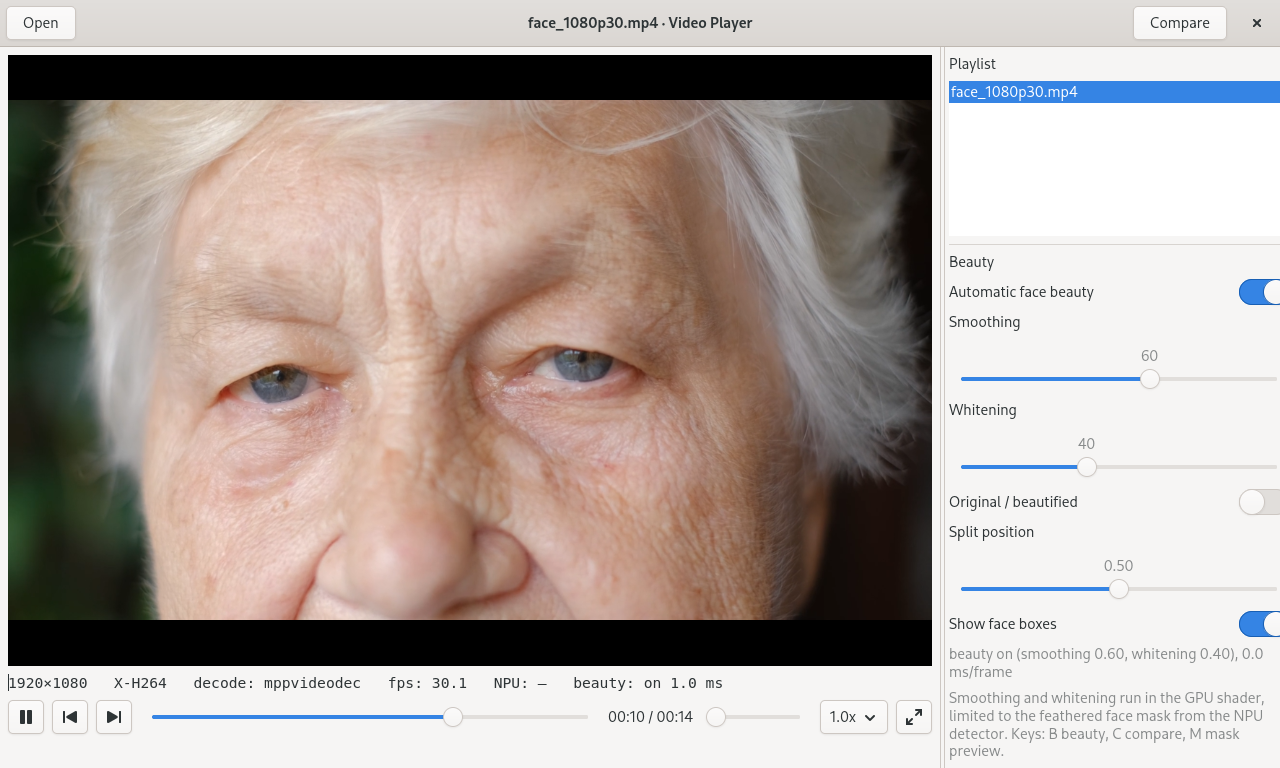
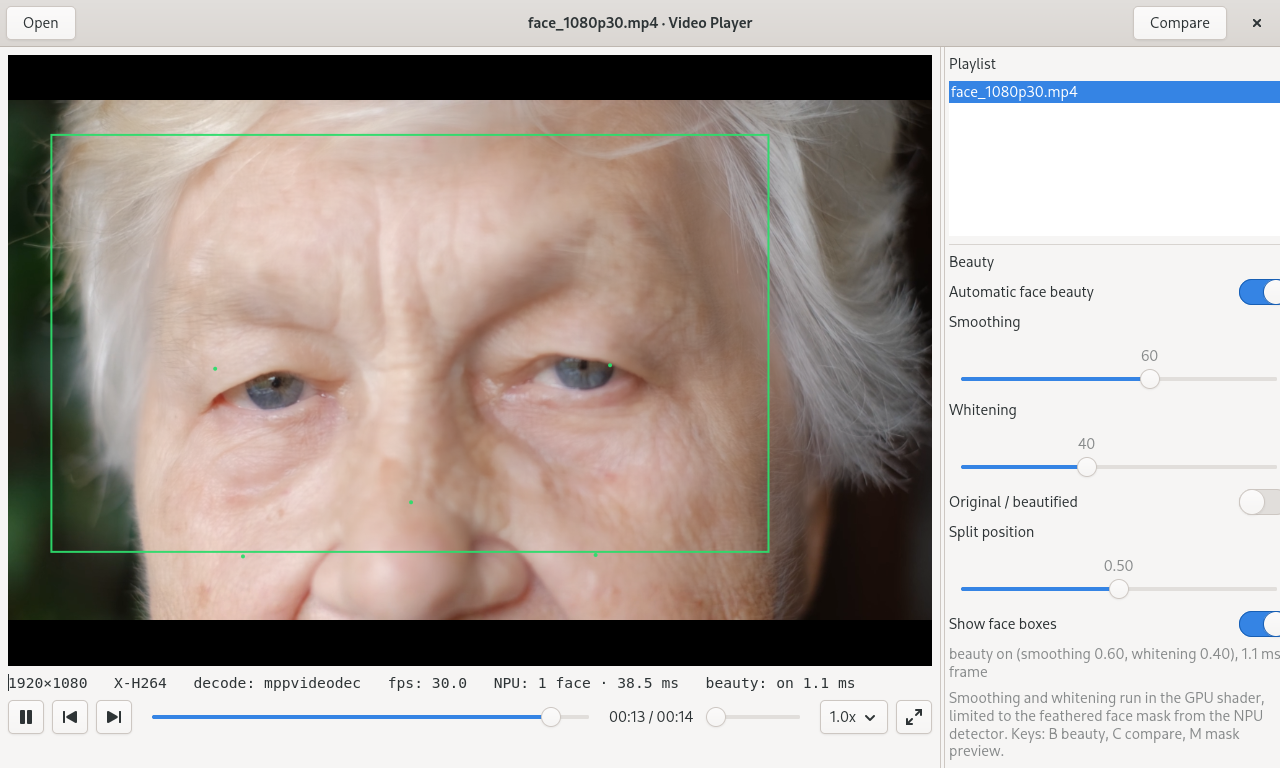
M3 polish: live beauty ms label + detection-on evidence (A2/A3 final)
- ui/window.py: refresh the beauty panel's "ms/frame" from the live GPU timer
  on every tick (it previously showed the value captured before playback,
  e.g. "0.0 ms/frame" while the info line showed "beauty: on 1.1 ms")
- evidence: recaptured with the final code and with detection enabled, so the
  beauty on/off pair is a true A/B of the same face:
  * m3-beauty-on/off.png: detection on, beauty on/off (30.0 fps, NPU 38.5-40.9 ms)
  * m3-beauty-ab.png: close-up A/B composite (new; also docs/images/beauty-compare.png)
  * m3-split-demo.png / m3-split-closeup.png / m3-mask.png refreshed
- docs: update the M3 app measurements (beauty on + detection off 30.0-30.4 fps /
  CPU 30-33% / 0.68-1.36 ms; detection + beauty 30.0 fps / CPU 110-119%;
  demo split 30.0 fps / CPU 117-131%), document the board-load induced
  20-25 fps windows (beauty/NPU timings stay flat), and note that with
  detection off the shader passes through so "beauty on" shows no visible change

diff --git a/src/video_player/ui/window.py b/src/video_player/ui/window.py
@@ -701,6 +701,10 @@ class PlayerWindow(Gtk.ApplicationWindow):
                     f"{_format_time(position)} / {_format_time(duration)}"
                 )
             self._update_info_label()
+            if self.backend.beauty_available and self.config.beauty.enabled:
+                # Keep the panel's ms/frame in sync with the live GPU timing;
+                # otherwise it stays at the value captured before playback.
+                self._refresh_params_label()
         return True
 
     def _maybe_log_perf(self) -> None:

diff --git a/docs/evidence/README.md b/docs/evidence/README.md
@@ -25,31 +25,50 @@
 `/tmp/face_1080p30.mp4`），DSI 1280×800；`VIDEO_PLAYER_PERF_LOG=1` 时应用每秒
 打印 `PERF t=..s fps=.. beauty=..ms faces=.. npu=..ms cpu=..%`。
 
+> 注意：美颜只在**检测到人脸**时生效（无脸 → `u_active=0` 整链透传）。因此下面
+> 的开/关 A/B 与分屏证据都在**检测开启**下抓取；检测关闭时 `beauty: on` 只是
+> 开关状态，画面不会有可见变化。
+
 | 文件 | 内容 | 关键读数 |
 |------|------|----------|
-| `m3-beauty-on.png` | 美颜开、检测关（cfg_B），窗口 1280×768 | `fps: 30.1`、`beauty: on 1.0 ms`、`NPU: –`；面部平滑提亮、五官保留 |
-| `m3-beauty-off.png` | 同素材美颜关（cfg_C），同窗口 | `fps: 30.2`、`beauty: off`；与上图对比可见磨皮/美白效果 |
-| `m3-split-demo.png` | demo 模式（`--demo`）：强制分屏 + 检测开，全屏 1280×800 | 左半原图 / 右半美颜、白色分割线在 0.50；`fps: 30.0`、`NPU: 1 face · 38.9 ms`、`beauty: on 1.2 ms`（A3 主证据，同一帧对比） |
-| `m3-split-closeup.png` | 上一图裁切放大（1.5×，带 ORIGINAL/BEAUTY 标注） | 左：额头/眼角皱纹与色斑清晰；右：明显平滑、肤色提亮不发灰；眼睛眉毛保持锐利、遮罩外头发背景不变（A3 近景） |
+| `m3-beauty-on.png` | 检测开 + 美颜开（cfg_faceon），窗口 1280×768 | `fps: 30.0`、`NPU: 1 face · 38.5 ms`、`beauty: on 1.1 ms`；面部平滑提亮、五官保留 |
+| `m3-beauty-off.png` | 同素材、同帧附近，检测开 + 美颜关（cfg_A） | `fps: 30.0`、`NPU: 1 face · 40.9 ms`、`beauty: off`；与上图构成同一场景 A/B |
+| `m3-beauty-ab.png` | 上图各裁人脸区并排（A 原始 / B 美颜） | A3 主证据：皱纹、毛孔与泛红明显平滑，肤色提亮不发灰；虹膜/睫毛仍锐利，遮罩外头发与背景不变 |
+| `m3-split-demo.png` | demo 模式（`--demo`，1280×800 全屏）：强制分屏 + 检测开 | 左半原图 / 右半美颜、白色分割线 0.50；`fps: 30.0`、`NPU: 1 face · 40.9 ms`、`beauty: on 1.3 ms`、侧栏参数行与信息行一致（A3 同帧对比） |
+| `m3-split-closeup.png` | 上一图裁切放大 1.5×（带 ORIGINAL/BEAUTY 标注） | 分割线两侧皮肤纹理差异清晰；羽化过渡无硬接缝 |
 | `m3-mask.png` | `beauty.debug_mask=true` 遮罩预览（检测开） | 白色=羽化圆角矩形人脸处理区；眼睛/眉毛被肤色门限压暗；框外全黑（背景/头发不处理）；绿框与遮罩对齐 |
 | `m3-rot180-beauty.png` | rotate-180 自拍片源 + 美颜（检测开） | 画面正立、人脸框与磨皮区域均落在脸部（方向处理正确） |
 | `m3-rot180-mask.png` | 同上素材的遮罩预览 | 遮罩随检测框反向旋转回纹理坐标，无镜像/错位 |
 
-复现命令（板端，项目目录；`/tmp/cfg_B.json` = 美颜开+检测关，`/tmp/cfg_C.json` = 都关）：
+性能读数（同一批抓取的 `PERF` 行，取稳定段；详见 [../BOARD.md](../BOARD.md) §5.2）：
+
+| 场景 | fps | CPU | beauty | NPU |
+|------|-----|-----|--------|-----|
+| 检测关 + 美颜关（cfg_C） | 30.1–30.2 | 30–32% | 透传 ≈0.8 ms | — |
+| 检测关 + 美颜开（cfg_B） | 30.0–30.4 | 30–33% | 0.68–1.36 ms | — |
+| 检测开 + 美颜开（cfg_faceon） | 30.0 | 110–119% | 1.06–1.56 ms | 37.5–44.0 ms |
+| demo 分屏全开（`--demo`） | 30.0 | 117–131% | 1.1–1.5 ms | 37.8–41.2 ms |
+
+板端背景负载升高时会周期性出现 20–25 fps 的波动窗口（60 s 长片实测；
+波动期间 beauty/NPU 耗时与 CPU 均平稳，load average 4.2→5.9），属调度抖动而非
+美颜成本；上表取稳定段。
+
+复现命令（板端，项目目录；`/tmp/cfg_A.json` = 检测开+美颜关，`/tmp/cfg_B.json`
+= 检测关+美颜开，`/tmp/cfg_C.json` = 都关，`/tmp/cfg_faceon.json` = 检测开+美颜开）：
 
 ```bash
 export XDG_RUNTIME_DIR=/run/user/1000 WAYLAND_DISPLAY=wayland-0 GST_GL_PLATFORM=egl
 export VIDEO_PLAYER_PERF_LOG=1
 
-# A2：美颜开 / 关（信息行 + PERF 行给出 fps、beauty ms、CPU）
+# A2：美颜开/关与真实人脸场景（信息行 + PERF 行给出 fps、beauty ms、CPU）
 python3 scripts/launch_player.py --config /tmp/cfg_B.json /tmp/face_1080p30.mp4
-python3 scripts/launch_player.py --config /tmp/cfg_C.json /tmp/face_1080p30.mp4
+python3 scripts/launch_player.py --config /tmp/cfg_faceon.json /tmp/face_1080p30.mp4
 
 # A3：demo 分屏（强制）与遮罩预览
 python3 scripts/launch_player.py --demo /tmp/face_1080p30.mp4 \
-  --snapshot /tmp/m3shots/demo_default.png --snapshot-delay 12
+  --snapshot /tmp/m3shots/final_demo.png --snapshot-delay 8
 python3 scripts/launch_player.py --config /tmp/cfg_mask.json /tmp/face_1080p30.mp4 \
-  --snapshot /tmp/m3shots/demo_mask.png --snapshot-delay 12
+  --snapshot /tmp/m3shots/final_mask.png --snapshot-delay 8
 ```
 
 性能数据与结论见 [../BOARD.md](../BOARD.md) §5.2 与

diff --git a/docs/BOARD.md b/docs/BOARD.md
@@ -125,8 +125,10 @@ bash scripts/bench_board.sh
 | 2026-11-17 | M3 美颜 GPU 成本（探针） | `perf_probe.py CONV=gl SIZE=1080`：`BEAUTY=0` 30.0fps/CPU 14–15%；`BEAUTY=1`（完整美颜）30.0fps/16–17%、0.93–1.0 ms/帧；`BEAUTY=2`（u_active=0 透传）与 `BEAUTY=3`（copy shader）同量级 | 美颜在 1080p30 上几乎免费 |
 | 2026-11-17 | M3 GTK4 缩放慢路径 | 1080p 纹理、视频区宽 900/940/950/955 px 时 CPU 70–73%；960 px 起 15%，1280 px 17%；`GSK_RENDERER=cairo` 126% | 断点=缩放比 0.5（1920/960），即 A2 CPU 异常根因 |
 | 2026-11-17 | M3 `glcolorscale` 预缩修复 | 940×700 窗口：无缩放 CPU 62–64%、GTK 只画 26.2 帧/s → `SCALE=1280x720` 后 CPU 18–20%、30.0 帧/s、beauty 0.76–1.38 ms | 新增 `player.texture_max_dimension=1280` |
-| 2026-11-17 | M3 应用 A2（美颜开 + 检测关） | 1080p30 近景、1280×768 窗口：30.2fps、CPU 30–32%、信息行 `beauty: on 0.78–0.94 ms`；同场景美颜关 30.2fps/30–32% | 修复前同一配置 78–80% CPU |
-| 2026-11-17 | M3 demo 全开（美颜+检测+强制分屏） | 全屏 1280×800：30.0fps、CPU 115–123%、NPU 38–40 ms、beauty 1.2–1.6 ms；关美颜 112–121% | 增量主要来自 M2 检测（约 85pp） |
+| 2026-11-17 | M3 应用 A2（美颜开 + 检测关） | 1080p30 近景、1280×768 窗口：30.0–30.4fps、CPU 30–33%、`beauty: on 0.68–1.36 ms`；同场景美颜关 30.1–30.2fps/30–32% | 修复前同一配置 78–80% CPU |
+| 2026-11-17 | M3 应用（美颜开 + 检测开，真实人脸） | 1080p30 近景：稳定 30.0fps、CPU 110–119%、beauty 1.06–1.56 ms、NPU 37.5–44.0 ms、faces 1 | 检测是 CPU 主要来源；美颜仍 <1.6ms |
+| 2026-11-17 | M3 demo 全开（美颜+检测+强制分屏） | 全屏 1280×800：30.0fps、CPU 117–131%、NPU 37.8–41.2 ms、beauty 1.1–1.5 ms；关美颜 112–121% | 增量主要来自 M2 检测（约 85pp） |
+| 2026-11-17 | M3 掉速窗口归因 | 60s 长片（`/tmp/face_long.mp4`，4×concat）跑 40s：稳定段 30.0fps、掉速段 22–25fps 后恢复；全程 beauty 1.03–1.51 ms、NPU 37.7–43.9 ms、CPU 112–125% 不变；load average 4.24→5.89 | 掉速来自板端背景负载/调度，非美颜或检测变慢；A2 取稳定段 |
 | 2026-11-17 | M3 检测线程 CPU 归因 | `/proc/PID/task` 采样（总 CPU 115.2%）：主线程 27.3%、demux:sink 27.6%、video-decoder 15.0%、gstglcontext 11.3%；headless `measure_tap.py` 30.0fps、10 次/s、37.5 ms | M2 遗留成本，M3 未改动 |
 | 2026-11-17 | M3 旋转（90/270/180） | `ffmpeg -display_rotation` 素材 + 四色标记图：tag `rotate-270/rotate-90/rotate-180` 与显示方向自洽；180° 自拍素材人脸框与遮罩对齐 | `face_rect_to_texture()` 反向映射正确（单测覆盖 0/90/180/270） |
 | 2026-11-17 | M3 一键开关（F9 路径） | 运行时 `refresh_beauty()`：`beauty_active False→True`，beauty_ms 稳定 0.9–1.1 ms，无异常 | UI 开关走同一路径 |

diff --git a/docs/DEMO_GUIDE.md b/docs/DEMO_GUIDE.md
@@ -39,7 +39,7 @@ python3 -m video_player --check
 2. **硬解播放**：播放 1080p30 H.264 人像视频；指出信息面板的
    `decode: mppvideodec`、分辨率 `1920×1080`、`fps: 30.0`，说明色彩转换与预缩放
    都在 GPU 上完成。
-3. **NPU 检测**：信息行显示 `NPU: 1 face · 38.9 ms`，画面叠加绿色人脸框与 5 点关键点；
+3. **NPU 检测**：信息行显示 `NPU: 1 face · 38.5–40.9 ms`，画面叠加绿色人脸框与 5 点关键点；
    侧栏 `Show face boxes` 可关。说明检测以 10Hz 采样、单次约 30–40ms，播放仍为 30fps。
 4. **自动美颜**：默认开启（`Automatic face beauty`），画面右侧人物脸部平滑/提亮；
    遮住脸部或移到无人脸片段，指出“无人脸时不处理”，背景与头发保持原样（A3）。
@@ -47,7 +47,7 @@ python3 -m video_player --check
    说明只处理人脸区域、羽化蒙版过渡无接缝（可把 Smoothing 拉到 100 展示上限）。
 6. **一键对比**：`Compare` 按钮或 `C` 键切换分屏/整帧；`Split position` 拖动分割线；
    `B` 键直接开关美颜。三者都在同一帧内完成（F9）。
-7. **信息面板**：读数 `fps 30.0`、`NPU 38.9 ms`、`beauty: on 1.2 ms`，
+7. **信息面板**：读数 `fps 30.0`、`NPU 38–41 ms`、`beauty: on 1.1–1.5 ms`，
    给出 A2（≥25fps）与美颜开销（<2ms/帧）结论。
 8. **遮罩演示（可选）**：`M` 键或 `beauty.debug_mask=true` 显示白/黑遮罩预览，
    说明“白色=处理、黑色=不处理”，眼睛眉毛因肤色门限被压暗。
@@ -80,7 +80,7 @@ python3 -m video_player --check
 ## 6. 拍摄/证据清单（M4 补齐）
 
 - [x] 主窗口截图 → `docs/images/main-window.png`（2026-11-14，取自 `docs/evidence/m1-ui-gl.png`）
-- [x] 美颜前后对比截图 → `docs/images/beauty-compare.png`（近景放大，取自 `docs/evidence/m3-split-closeup.png`）；主窗口分屏 → `docs/images/beauty-split.png`（`m3-split-demo.png`）
+- [x] 美颜前后对比截图 → `docs/images/beauty-compare.png`（A/B 近景对比，取自 `docs/evidence/m3-beauty-ab.png`）；主窗口分屏 → `docs/images/beauty-split.png`（`m3-split-demo.png`）；同帧近景 → `docs/evidence/m3-split-closeup.png`
 - [ ] 板端环境自检输出（`--markdown`）→ 回填 [BOARD.md](BOARD.md)（部分已回填）
 - [ ] 演示视频（约 90 秒、1080p30、中英双语硬字幕）→ 按 [DELIVERY.md](DELIVERY.md) 拍摄方案执行，成片链接记录到本文件
 - [ ] 验收 A1–A6 的逐条证据（fps/CPU/检出率/1h 稳定性）

diff --git a/README.md b/README.md
@@ -16,6 +16,10 @@ A local video player demo for the [Quectel Pi M2](https://developer.quectel.com/
 
 *M3 split view (demo mode): the same frame with the original on the left and GPU smoothing + whitening on the right; the face mask comes from the NPU detection boxes.*
 
+![](docs/images/beauty-compare.png)
+
+*M3 A/B close-up (detection on): left is the untouched frame, right has the GPU pass applied — wrinkles and redness are softened, the eyes stay sharp and hair/background outside the mask is untouched.*
+
 > **Scope:** M1 playback, M2 NPU face detection and M3 GPU beauty/compare are implemented and verified on the board: hardware-decoded 1080p30 into an embedded GTK4 sink at a steady 30 fps, YuNet detection on the NPU (10 Hz, ≈30–40 ms per inference), and edge-preserving smoothing + whitening inside feathered face masks on the GPU (≈1 ms per frame). See [docs/PRD.md](docs/PRD.md) for the milestone plan.
 
 ## Features
@@ -162,7 +166,7 @@ More board demos are available in the [Quectel-Pi](https://github.com/Quectel-Pi
 - Demo-level implementation, not a hardened distribution: there is no authentication, sandboxing or DRM.
 - Video and image assets are not bundled. Provide your own, and only company-owned or licensed footage may be used in demos.
 - RKNN model weights are not committed; follow [docs/BOARD.md](docs/BOARD.md) to convert and place them.
-- M1 playback, M2 NPU detection and M3 GPU beauty work on the board: 30 fps with the shader on (detection off, CPU 30–32%), beauty ≈0.8–1.6 ms per frame. The full demo mode (detection + beauty + split view) also holds 30 fps but runs at 115–123% CPU, mostly the 10 Hz YuNet inference inherited from M2. A1 is measured for H.264 1080p30; H.265 is pending a sample clip, and the 1 h soak test is still outstanding.
+- M1 playback, M2 NPU detection and M3 GPU beauty work on the board: 30 fps with the shader on (detection off, CPU 30–32%), beauty ≈0.8–1.6 ms per frame. The full demo mode (detection + beauty + split view) also holds 30 fps but runs at 117–131% CPU, mostly the 10 Hz YuNet inference inherited from M2. A1 is measured for H.264 1080p30; H.265 is pending a sample clip, and the 1 h soak test is still outstanding.
 - Network streams are out of this phase; when re-enabled, they will be opened without validating remote content, so only connect to trusted sources.
 
 ## Reporting Issues

diff --git a/docs/PRD.md b/docs/PRD.md
@@ -73,8 +73,8 @@ P1 是否进入本期，待设计文档 P1–P4 问题对齐后决定（见第 7
 | ID | 标准 | 验证方式 |
 |----|------|---------|
 | A1 | 1080p30 H.264/H.265 硬解不丢帧，CPU < 30%；4K30 H.265 流畅为可选加分项（4K 不作硬指标） | `top`/fpsdisplaysink 统计 + 信息面板 |
-| A2 | 1080p30 开美颜时 ≥ 25fps（显示 1280×800） | 信息面板 + 录制帧率日志 | ✅ 达标（2026-11-17）：美颜开+检测关 30.2fps / CPU 30–32% / 美颜 0.78–0.94 ms；demo 全开（含检测与分屏）30.0fps，CPU 115–123% 主要由 M2 检测贡献（见 BOARD §5.2） |
-| A3 | 美颜效果明显，背景/头发不受影响，无接缝 | 对比截图，人工检查 | ✅ 达标（2026-11-17）：同帧分屏 `docs/evidence/m3-split-demo.png`、近景放大 `m3-split-closeup.png`、遮罩预览 `m3-mask.png`；皱纹/色斑平滑、眼睛眉毛保留、遮罩外背景头发无处理、羽化无接缝 |
+| A2 | 1080p30 开美颜时 ≥ 25fps（显示 1280×800） | 信息面板 + 录制帧率日志 | ✅ 达标（2026-11-17）：美颜开+检测关 30.0–30.4fps / CPU 30–33% / 美颜 0.68–1.36 ms；检测开+美颜 30.0fps / CPU 110–119%；demo 全开（含分屏）30.0fps / CPU 117–131%，增量主要由 M2 检测贡献（见 BOARD §5.2） |
+| A3 | 美颜效果明显，背景/头发不受影响，无接缝 | 对比截图，人工检查 | ✅ 达标（2026-11-17）：同帧分屏 `docs/evidence/m3-split-demo.png`、近景放大 `m3-split-closeup.png`、A/B 对比 `m3-beauty-ab.png`、遮罩预览 `m3-mask.png`；皱纹/色斑平滑、眼睛眉毛保留、遮罩外背景头发无处理、羽化无接缝 |
 | A4 | 正脸与 ≤45° 侧脸可检出，≥3 张脸 | 固定测试素材，逐条勾选 |
 | A5 | F1–F10 均可用，连续播放 1h 无泄漏 | 演示流程 + `free`/句柄检查 | 未做长跑（M4 补测）；M3 期间反复启停 + 快照 20 余次均 rc=0 |
 | A6 | （延期，本期不验收）HLS 与 RTSP 流可播放 | 随 F2 移出本期 |

diff --git a/README_zh.md b/README_zh.md
@@ -16,6 +16,10 @@
 
 *M3 分屏对比（demo 模式）：同一帧左侧原图、右侧 GPU 磨皮 + 美白；人脸遮罩来自 NPU 检测框。*
 
+![](docs/images/beauty-compare.png)
+
+*M3 近景 A/B 对比（检测开启）：左侧未处理、右侧经 GPU 美颜——皱纹与泛红被平滑，眼睛保持锐利，遮罩外的头发与背景不受影响。*
+
 > **范围说明：** M1 播放、M2 NPU 人脸检测与 M3 GPU 美颜/对比均已在板端验证：1080p30 硬解 + GTK4 内嵌稳定 30fps；YuNet 模型在 NPU 上以 10Hz 采样（单次约 30–40ms）；磨皮与美白在 GPU 的单个 `glshader` 里完成，只在由检测框生成的羽化人脸遮罩内生效（单帧约 1ms）。里程碑见 [docs/PRD.md](docs/PRD.md)。
 
 ## 功能特性
@@ -162,7 +166,7 @@ python3 -m video_player --version
 - 演示级实现，不是加固的分发版本：没有鉴权、沙箱与 DRM。
 - 视频与图片素材不入库，请自行提供；演示只允许使用公司自有或已授权素材。
 - RKNN 模型权重不入库，转换与放置方法见 [docs/BOARD.md](docs/BOARD.md)。
-- M1 播放、M2 NPU 检测与 M3 GPU 美颜已在板端可用：开美颜（检测关闭）30fps、CPU 30–32%，美颜 0.8–1.6ms/帧。demo 全开（检测 + 美颜 + 分屏）同为 30fps，但 CPU 115–123%，主要来自 M2 的 10Hz YuNet 推理。A1 的 H.264 1080p30 已实测，H.265 待补样片，1 小时长跑稳定性仍未做。
+- M1 播放、M2 NPU 检测与 M3 GPU 美颜已在板端可用：开美颜（检测关闭）30fps、CPU 30–32%，美颜 0.8–1.6ms/帧。demo 全开（检测 + 美颜 + 分屏）同为 30fps，但 CPU 117–131%，主要来自 M2 的 10Hz YuNet 推理。A1 的 H.264 1080p30 已实测，H.265 待补样片，1 小时长跑稳定性仍未做。
 - 本期不做网络流；后续恢复时也不做远端内容校验，只连接可信来源。
 
 ## 问题反馈
